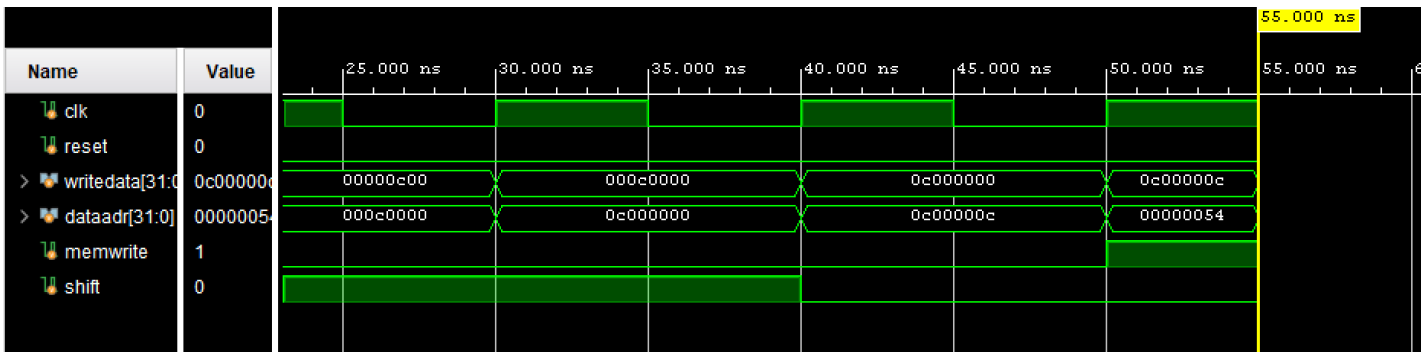
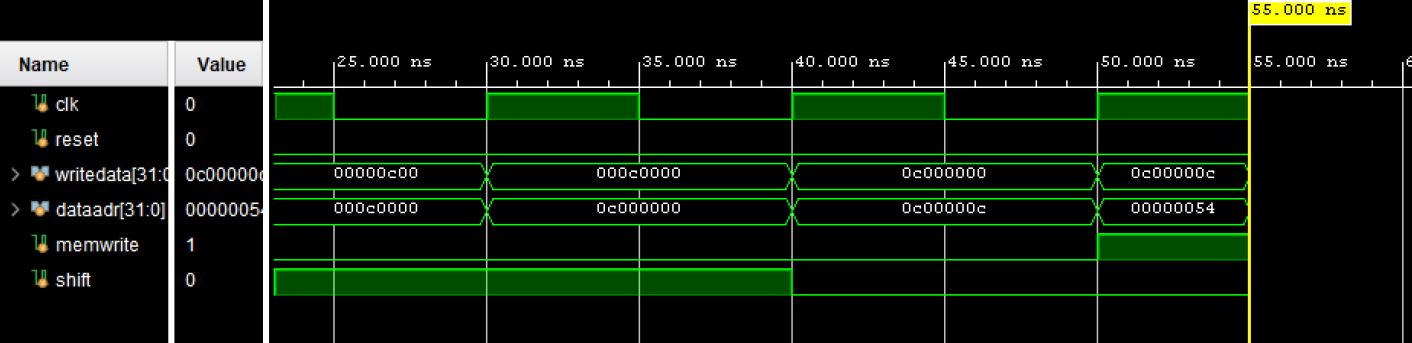
Modified README.

Changed region(s): [[0.0, 0.0, 1.0, 1.0], [0.9972, 0.1458, 1.0, 0.2041]]

diff --git a/README.md b/README.md
@@ -59,14 +59,10 @@ For the sll instruction, you will open `Instruction Tests\sll memfile.txt` and c
 2210000c
 ac100054
 ```
-An assembly translation of that machine code can be found in  `Instruction Tests\sll tester.asm`. Simulating this will then output the following waveform diagram:
-```
-1342
-4231
-2413
-3124
-```
-As expected, the diagram is clean and error-free. The TLC Console panel would also accompany this with a "Success" message.
+An assembly translation of that machine code can be found in  `Instruction Tests\sll tester.asm`. Simulating this will then output the following waveform diagram (truncated to only show the last few cycles):
+![sll_waveform.png](sll_waveform.png)
+
+As expected, the diagram is clean and error-free. The TLC Console panel would also accompany this with a "Success" message. Video documentation includes a full discussion of the entire waveforms.
 
 **Reference**\
 Harris, D. M., & Harris, S. (2013). *Digital Design and Computer Architecture (2nd ed.).* Elsevier Inc. https://doi.org/10.1016/C2011-0-04377-6
